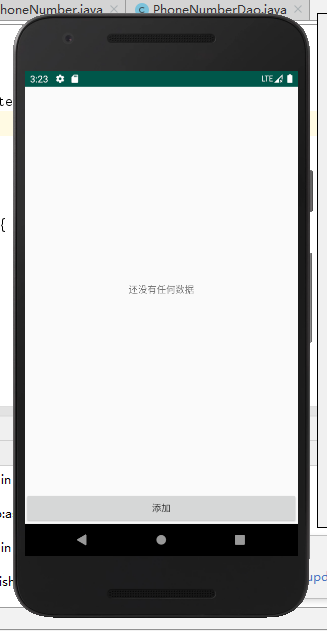
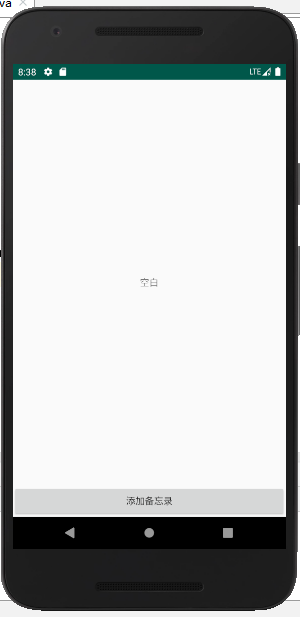
实现增删查改

Changed region(s): [[0.0, 0.0, 1.0, 1.0], [0.39, 0.4311, 0.6, 0.4619]]

diff --git a/project6/app/src/main/java/cn/edu/hstc/memoapplication/MainActivity.java b/project6/app/src/main/java/cn/edu/hstc/memoapplication/MainActivity.java
@@ -1,4 +1,4 @@
-package cn.edu.hstc.myapplication;
+package cn.edu.hstc.memoapplication;
 
 import androidx.annotation.NonNull;
 import androidx.appcompat.app.AlertDialog;
@@ -14,33 +14,28 @@ import android.view.ViewGroup;
 import android.widget.AdapterView;
 import android.widget.BaseAdapter;
 import android.widget.EditText;
-import android.widget.ListView;
 import android.widget.TextView;
 
-import java.util.ArrayList;
 import java.util.List;
 
 public class MainActivity extends ListActivity {
-    //private ListView lv_main;
-    private PhoneNumberAdapter adapter;
-    private PhoneNumberDao dao;
-    private List<PhoneNumber> data;
+    private MemoAdapter adapter;
+    private MemoDao dao;
+    private List<Memo> data;
     private int position;
 
     @Override
     protected void onCreate(Bundle savedInstanceState) {
         super.onCreate(savedInstanceState);
         setContentView(R.layout.activity_main);
-        //lv_main=getListView();
-        adapter=new PhoneNumberAdapter();
-        dao=new PhoneNumberDao(this);
+        adapter=new MemoAdapter();
+        dao=new MemoDao(this);
         data=dao.getAll();
         //lv_main.setAdapter(adapter);
         setListAdapter(adapter);
         //给listView设置创建contextMenu的监听
         getListView().setOnCreateContextMenuListener(this);
     }
-
     @Override
     public void onCreateContextMenu(ContextMenu menu, View v, ContextMenu.ContextMenuInfo menuInfo) {
         super.onCreateContextMenu(menu, v, menuInfo);
@@ -55,14 +50,14 @@ public class MainActivity extends ListActivity {
     @Override
     public boolean onContextItemSelected(@NonNull MenuItem item) {
         //得到对应PhoneNumber对象
-        PhoneNumber phoneNumber=data.get(position);
+        Memo memo=data.get(position);
         switch (item.getItemId()){
             case 1://更新
-                showUpdateDialog(phoneNumber);
+                showUpdateDialog(memo);
                 break;
             case 2://删除
                 //1.删除数据表对应的数据
-                dao.deleteById(phoneNumber.getId());
+                dao.deleteById(memo.getId());
                 //2.删除List对应的数据
                 data.remove(position);
                 //3.通知更新列表
@@ -76,22 +71,22 @@ public class MainActivity extends ListActivity {
 
     /**
      * 显示更新的Dialog
-     * @param phoneNumber
+     * @param memo
      */
-    private void showUpdateDialog(final PhoneNumber phoneNumber){
+    private void showUpdateDialog(final Memo memo){
         final EditText editText=new EditText(this);
-        editText.setHint(phoneNumber.getNumber());
+        editText.setHint(memo.getContent());
         new AlertDialog.Builder(this)
-                .setTitle("更新黑名单")
+                .setTitle("更新内容")
                 .setView(editText)
                 .setPositiveButton("更新", new DialogInterface.OnClickListener() {
                     @Override
                     public void onClick(DialogInterface dialog, int which) {
                         //1.保存数据表中
                         String newNumber=editText.getText().toString();
-                        phoneNumber.setNumber(newNumber);
+                        memo.setContent(newNumber);
                         //2.更新数据表对应的数据
-                        dao.update(phoneNumber);
+                        dao.update(memo);
                         //3.通知更新列表
                         adapter.notifyDataSetChanged();
                     }
@@ -103,25 +98,25 @@ public class MainActivity extends ListActivity {
     public void add(View v){
         //1.显示添加的dialog（带输入框）
         final EditText editText=new EditText(this);
-        editText.setHint("输入电话号码");
+        editText.setHint("输入内容");
         new AlertDialog.Builder(this)
-                .setTitle("添加电话号码")
+                .setTitle("添加内容")
                 .setView(editText)
                 .setPositiveButton("添加", new DialogInterface.OnClickListener() {
                     @Override
                     public void onClick(DialogInterface dialog, int which) {
 
                         //1.保存数据表中
-                        String number=editText.getText().toString();
+                        String content=editText.getText().toString();
                         //PhoneNumber phoneNumber=new PhoneNumber();
-                        PhoneNumber phoneNumber=null;
-                        phoneNumber=new PhoneNumber();
-                        phoneNumber.setId(-1);
-                        phoneNumber.setNumber(number);
+                        Memo memo=null;
+                        memo=new Memo();
+                        memo.setId(-1);
+                        memo.setContent(content);
                         //list.add(phoneNumber);
-                        dao.add(phoneNumber);
+                        dao.add(memo);
                         //2.保存数据到List
-                        data.add(0,phoneNumber);
+                        data.add(0,memo);
                         //3.通知更新列表
                         adapter.notifyDataSetChanged();
                     }
@@ -129,7 +124,7 @@ public class MainActivity extends ListActivity {
                 .setNegativeButton("取消",null)
                 .show();
     }
-    class PhoneNumberAdapter extends BaseAdapter {
+    class MemoAdapter extends BaseAdapter {
         @Override
         public int getCount() {
             return data.size();
@@ -150,9 +145,9 @@ public class MainActivity extends ListActivity {
             if (convertView==null) {
                 convertView = View.inflate(MainActivity.this, android.R.layout.simple_list_item_1, null);
             }
-            PhoneNumber phoneNumber=data.get(position);
+            Memo memo=data.get(position);
             TextView textView=(TextView) convertView.findViewById(android.R.id.text1);
-            textView.setText(phoneNumber.getNumber());
+            textView.setText(memo.getContent());
             return convertView;
         }
     }

diff --git a/project6/app/src/main/java/cn/edu/hstc/memoapplication/MemoDao.java b/project6/app/src/main/java/cn/edu/hstc/memoapplication/MemoDao.java
@@ -1,4 +1,4 @@
-package cn.edu.hstc.myapplication;
+package cn.edu.hstc.memoapplication;
 
 import android.content.ContentValues;
 import android.content.Context;
@@ -10,26 +10,27 @@ import java.util.ArrayList;
 import java.util.List;
 
 /**
- * 操作phone_number表的DAO类
+ * 操作memo_app表的Dao类
  */
-public class PhoneNumberDao {
+public class MemoDao {
     private DBHelper dbHelper;
-    public PhoneNumberDao(Context context){
+    public MemoDao(Context context){
         dbHelper=new DBHelper(context);
     }
+
     /**
      * 添加一条记录
      */
-    public void add(PhoneNumber phoneNumber){
+    public void add(Memo memo){
         //1.得到连接
         SQLiteDatabase database=dbHelper.getReadableDatabase();
         //2.执行insert
         ContentValues values=new ContentValues();
-        values.put("number",phoneNumber.getNumber());
-        long id=database.insert("phone_number",null,values);
+        values.put("content" ,memo.getContent());
+        long id=database.insert("memo_app",null,values);
         Log.i("TAG","id="+id);
         //设置id
-        phoneNumber.setId((int)id);
+        memo.setId((int)id);
         //3.关闭
         database.close();
     }
@@ -41,7 +42,7 @@ public class PhoneNumberDao {
         //1.得到连接
         SQLiteDatabase database=dbHelper.getReadableDatabase();
         //2.执行delete
-        int deleteCount=database.delete("phone_number","_id=?",new String[]{id+""});
+        int deleteCount=database.delete("memo_app","_id=?",new String[]{id+""});
         Log.i("TAG","deleteCount="+deleteCount);
         //3.关闭
         database.close();
@@ -50,40 +51,34 @@ public class PhoneNumberDao {
     /**
      * 编辑一条记录
      */
-    public void update(PhoneNumber phoneNumber){
+    public void update(Memo memo){
         //1.得到连接
         SQLiteDatabase database=dbHelper.getReadableDatabase();
         //2.执行update
         ContentValues values=new ContentValues();
-        values.put("number",phoneNumber.getNumber());
-        int updateCount=database.update("phone_number",values,"_id="+phoneNumber.getId(),null);
+        values.put("content",memo.getContent());
+        int updateCount=database.update("memo_app",values,"_id="+memo.getId(),null);
         Log.i("TAG","updateCount="+updateCount);
         //3.关闭
         database.close();
     }
 
     /**
-     * 查询所有记录封装成List<PhoneNumber>
+     * 查询所有记录封装成List<Memo>
      */
-    public List<PhoneNumber> getAll() {
-        List<PhoneNumber> list=new ArrayList<PhoneNumber>();
+    public List<Memo> getAll() {
+        List<Memo> list=new ArrayList<Memo>();
         //1.得到连接
         SQLiteDatabase database=dbHelper.getReadableDatabase();
         //2.执行query
-        Cursor cursor=database.query("phone_number",null,null,null,null,null,"_id desc");
+        Cursor cursor=database.query("memo_app",null,null,null,null,null,"_id desc");
         //3.从cursor中取出所有数据并封装到List中
         while (cursor.moveToNext()){
-            PhoneNumber phoneNumber=null;
-            phoneNumber=new PhoneNumber();
-            phoneNumber.setId(cursor.getInt(cursor.getColumnIndex("id")));
-            phoneNumber.setNumber(cursor.getString(cursor.getColumnIndex("number")));
-            list.add(phoneNumber);
-            //id
-            //int id=cursor.getInt(0);
-            //number
-            //String number=cursor.getString(1);
-            //PhoneNumber phoneNumber=new PhoneNumber(id,number);
-            //list.add(new PhoneNumber(id,number));
+            Memo memo=null;
+            memo=new Memo();
+            memo.setId(cursor.getInt(cursor.getColumnIndex("id")));
+            memo.setContent(cursor.getString(cursor.getColumnIndex("content")));
+            list.add(memo);
         }
         //4.关闭
         cursor.close();

diff --git a/project6/app/src/main/java/cn/edu/hstc/memoapplication/DBHelper.java b/project6/app/src/main/java/cn/edu/hstc/memoapplication/DBHelper.java
@@ -1,4 +1,4 @@
-package cn.edu.hstc.myapplication;
+package cn.edu.hstc.memoapplication;
 
 import android.content.Context;
 import android.database.sqlite.SQLiteDatabase;
@@ -8,23 +8,19 @@ import android.util.Log;
 /**
  * 数据库操作的帮助类
  */
-
 public class DBHelper extends SQLiteOpenHelper {
-
     public DBHelper(Context context){
         super(context,"crud.db",null,1);
     }
-
     @Override
     public void onCreate(SQLiteDatabase db) {
         Log.i("TAG","DBHelper onCreare()");
         //创建类
-        db.execSQL("create table phone_number(_id integer primary key autoincrement, number varchar)");
+        db.execSQL("create table memo_app(_id integer primary key autoincrement, content varchar)");
     }
 
     @Override
-    public void onUpgrade(SQLiteDatabase db, int oldVersion, int newVersion){
+    public void onUpgrade(SQLiteDatabase db, int oldVersion, int newVersion) {
 
     }
-
 }

diff --git a/project6/app/src/main/java/cn/edu/hstc/memoapplication/Memo.java b/project6/app/src/main/java/cn/edu/hstc/memoapplication/Memo.java
@@ -1,0 +1,33 @@
+package cn.edu.hstc.memoapplication;
+
+/**
+ * memo_app表的实体类
+ */
+public class Memo {
+    private int id;
+    private String content;
+
+    public int getId() {
+        return id;
+    }
+
+    public void setId(int id) {
+        this.id = id;
+    }
+
+    public String getContent() {
+        return content;
+    }
+
+    public void setContent(String content) {
+        this.content = content;
+    }
+
+    @Override
+    public String toString() {
+        return "Memo{" +
+                "id=" + id +
+                ", content='" + content + '\'' +
+                '}';
+    }
+}

diff --git a/project6/app/src/androidTest/java/cn/edu/hstc/memoapplication/ExampleInstrumentedTest.java b/project6/app/src/androidTest/java/cn/edu/hstc/memoapplication/ExampleInstrumentedTest.java
@@ -1,4 +1,4 @@
-package cn.edu.hstc.myapplication;
+package cn.edu.hstc.memoapplication;
 
 import android.content.Context;
 
@@ -22,6 +22,6 @@ public class ExampleInstrumentedTest {
         // Context of the app under test.
         Context appContext = InstrumentationRegistry.getInstrumentation().getTargetContext();
 
-        assertEquals("cn.edu.hstc.myapplication", appContext.getPackageName());
+        assertEquals("cn.edu.hstc.memoapplication", appContext.getPackageName());
     }
 }

diff --git a/project6/app/src/test/java/cn/edu/hstc/memoapplication/ExampleUnitTest.java b/project6/app/src/test/java/cn/edu/hstc/memoapplication/ExampleUnitTest.java
@@ -1,4 +1,4 @@
-package cn.edu.hstc.myapplication;
+package cn.edu.hstc.memoapplication;
 
 import org.junit.Test;
 
